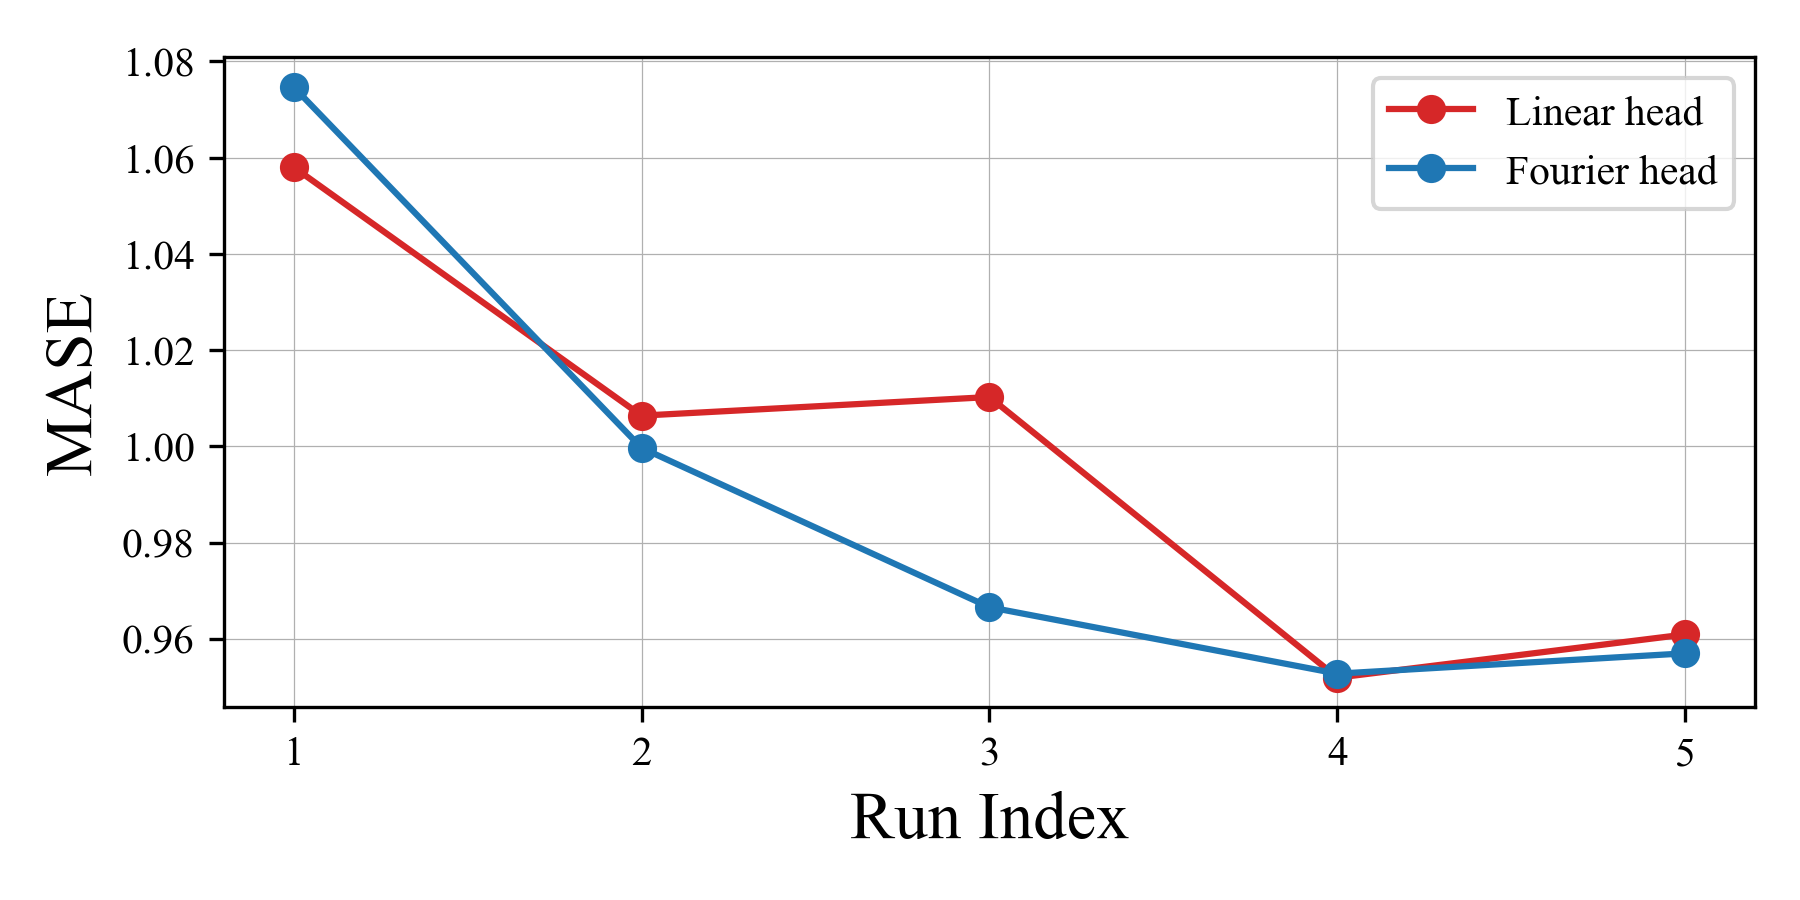
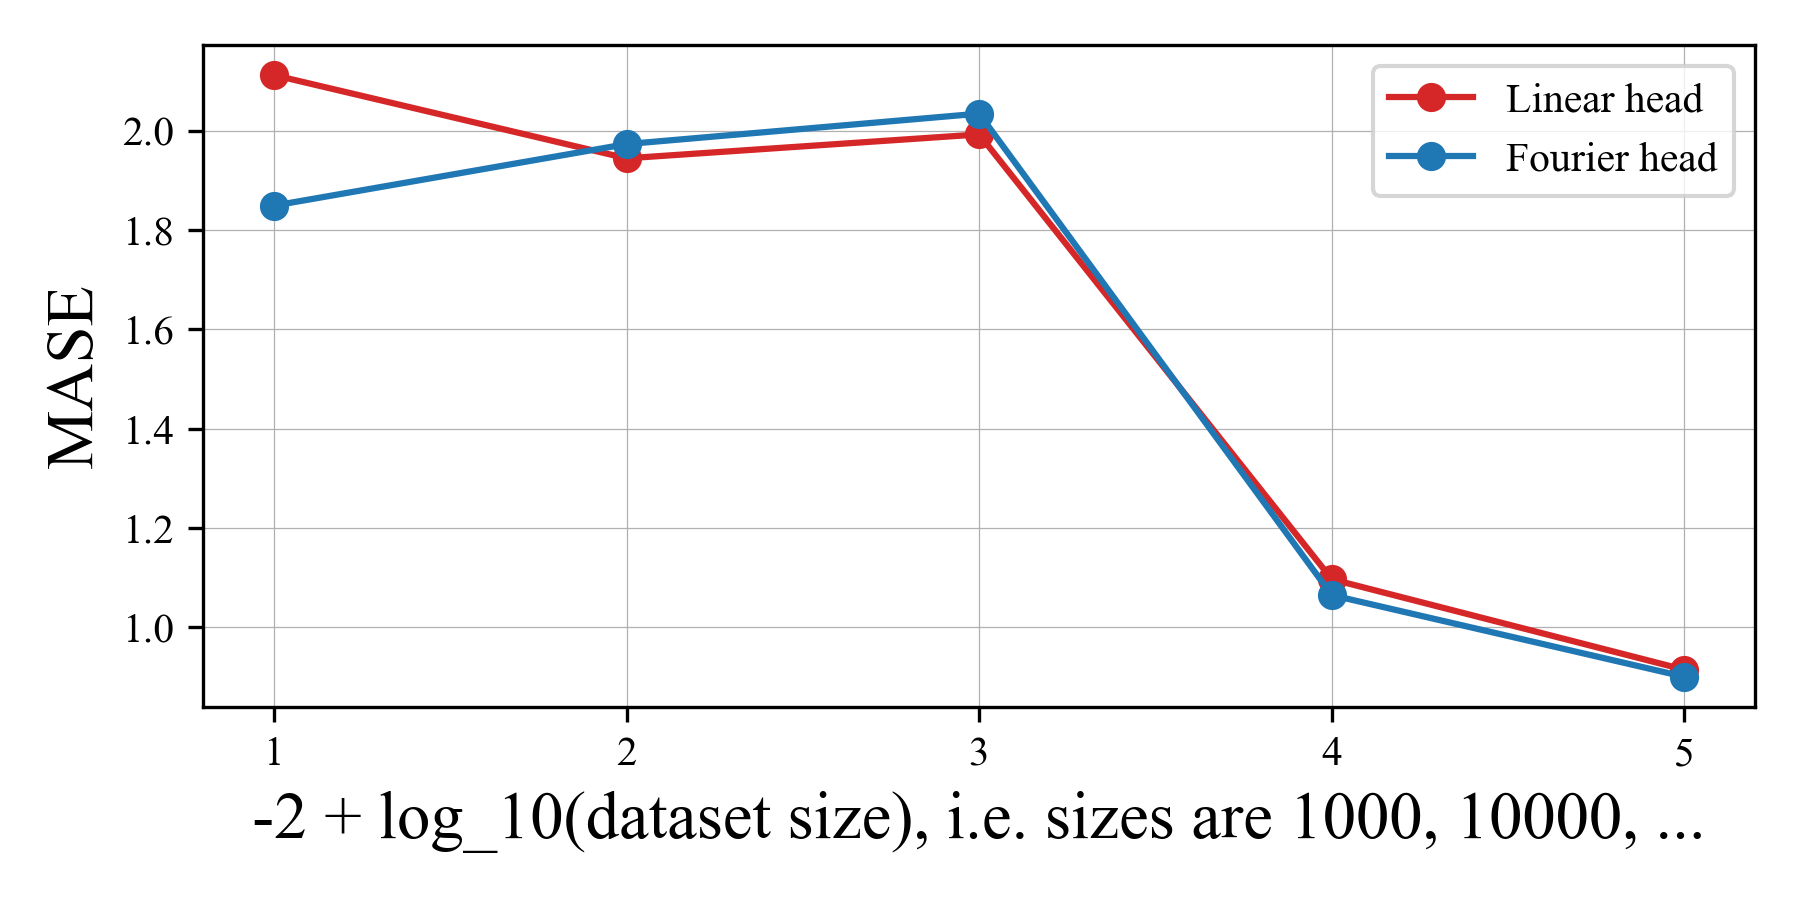
chronos graphing script where training steps scales with dataset size

diff --git a/time-series-forecasting/scripts/eval/graph_ablation_varying_dataset_size_v2.py b/time-series-forecasting/scripts/eval/graph_ablation_varying_dataset_size_v2.py
@@ -1,0 +1,97 @@
+import matplotlib.font_manager as font_manager
+import matplotlib.pyplot as plt
+from matplotlib.ticker import MultipleLocator
+import numpy as np
+import json
+import os
+
+font_path = '../imitation-learning/scripts/eval/Times_New_Roman.ttf'
+font_manager.fontManager.addfont(font_path)
+plt.rcParams['font.family'] = 'serif'
+plt.rcParams['font.serif'] = 'Times New Roman'
+
+CHECKPOINT = [
+    "20000", "40000", "60000", "80000", "100000", 
+    "120000", "140000", "160000", "180000", "200000"
+][9] # 2, 3, 7!
+
+def get_largest_checkpoint_idx(lst):
+
+    lst_ints = [int(elt) for elt in lst]
+    ckpt = str(max(lst_ints))
+
+    return ckpt
+
+def gather_metrics():
+    linear_runs = [f"run-{i}" for i in range(15, 20)]
+    fourier_runs = [f"run-{i}" for i in range(20, 25)]
+    
+    metrics = {
+        "linear": {"MASE": [], "WQL": []},
+        "fourier": {"MASE": [], "WQL": []}
+    }
+    
+    # Gather Linear metrics
+    print("Gathering metrics for linear runs...")
+    for run in linear_runs:
+        file_path = f"output/11-15-dataset-size-ablations-v2/{run}/eval_dict-zero-shot.json"
+        with open(file_path, "r") as f:
+            data = json.load(f)
+        ckpt = get_largest_checkpoint_idx(data.keys())
+        print(ckpt)
+        metrics["linear"]["MASE"].append(data[ckpt]["MASE"])
+        metrics["linear"]["WQL"].append(data[ckpt]["WQL"])
+    
+    # Gather Fourier metrics
+    print("Gathering metrics for Fourier runs...")
+    for run in fourier_runs:
+        file_path = f"output/11-15-dataset-size-ablations-v2/{run}/eval_dict-zero-shot.json"
+        with open(file_path, "r") as f:
+            data = json.load(f)
+        ckpt = get_largest_checkpoint_idx(data.keys())
+        print(ckpt)
+        metrics["fourier"]["MASE"].append(data[ckpt]["MASE"])
+        metrics["fourier"]["WQL"].append(data[ckpt]["WQL"])
+    
+    return metrics
+
+def build_graph(metric_name, linear_values, fourier_values, output_fname):
+    fig, ax = plt.subplots(figsize=(6, 3))
+    
+    x_positions = list(range(1, 6))
+    
+    # Plot individual points
+    ax.plot(x_positions, linear_values, 'o-', color='tab:red', label="Linear head")
+    ax.plot(x_positions, fourier_values, 'o-', color='tab:blue', label="Fourier head")
+    
+    ax.set_ylabel(metric_name, fontsize=16)
+    ax.grid(True, linewidth=0.3)
+    ax.set_xticks(x_positions)
+    ax.set_xlabel("-2 + log_10(dataset size), i.e. sizes are 1000, 10000, ...", fontsize=16)
+    ax.legend(loc="best")
+    
+    plt.tight_layout()
+    plt.savefig(output_fname, dpi=300)
+    plt.close()
+
+def main():
+    metrics = gather_metrics()
+    
+    # Create MASE graph
+    build_graph(
+        "MASE",
+        metrics["linear"]["MASE"],
+        metrics["fourier"]["MASE"],
+        "scripts/eval/graph_ablation_varying_dataset_size_MASE.png"
+    )
+    
+    # Create WQL graph
+    build_graph(
+        "WQL",
+        metrics["linear"]["WQL"],
+        metrics["fourier"]["WQL"],
+        "scripts/eval/graph_ablation_varying_dataset_size_WQL.png"
+    )
+
+if __name__ == "__main__":
+    main()
